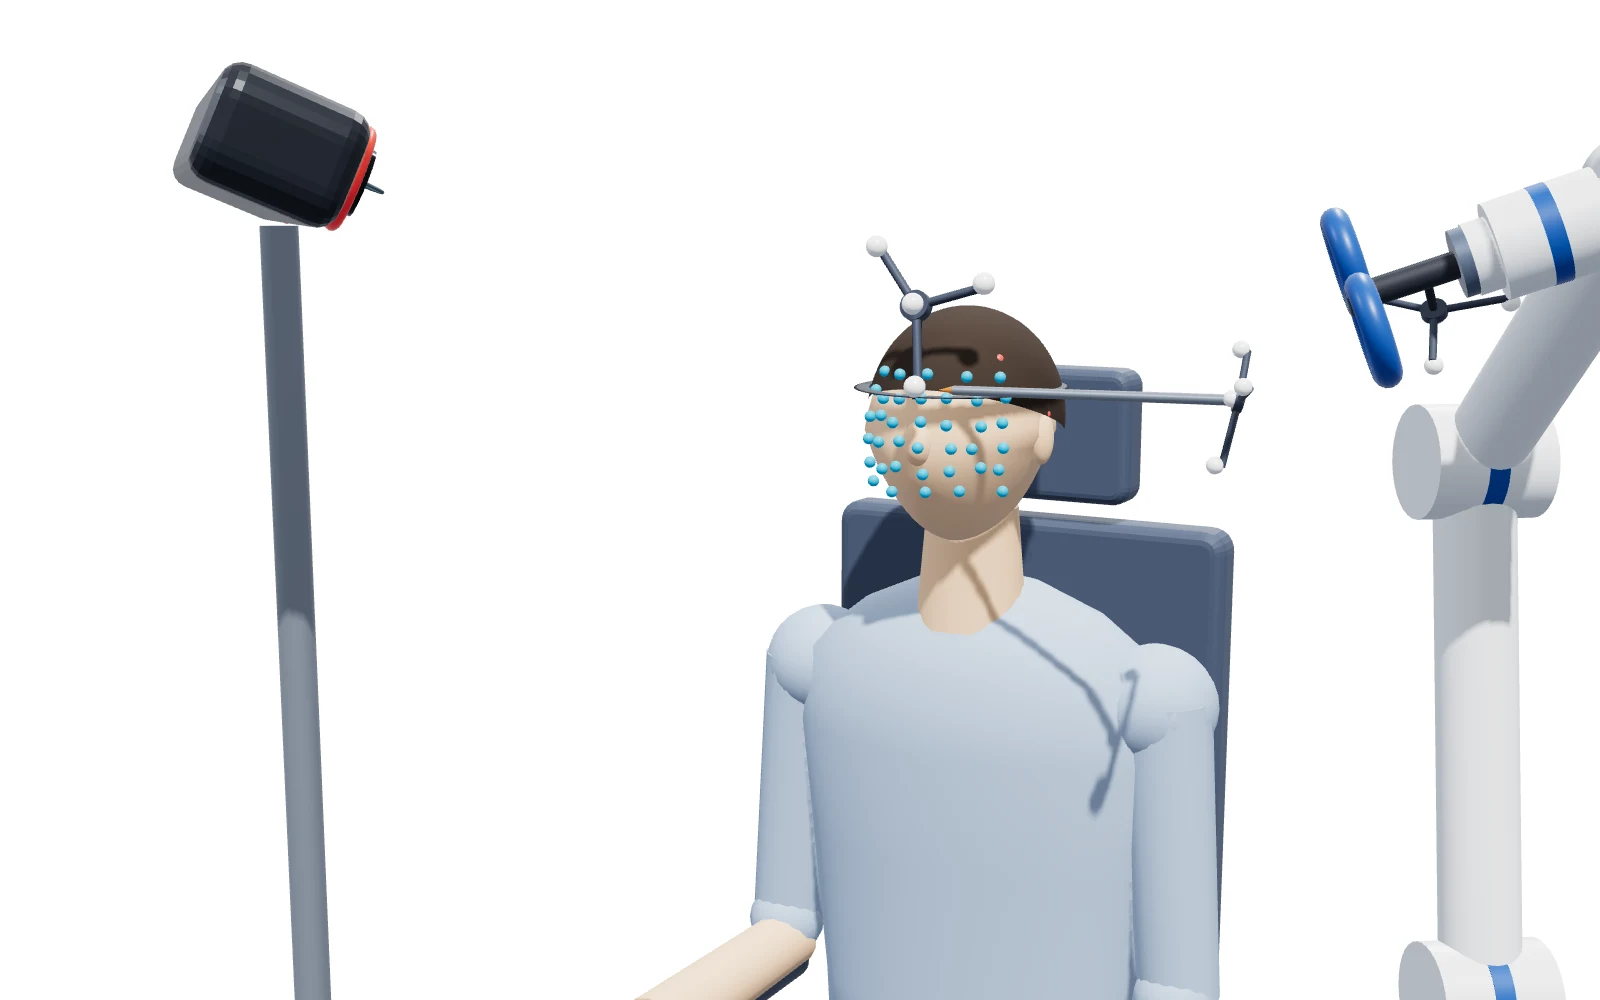
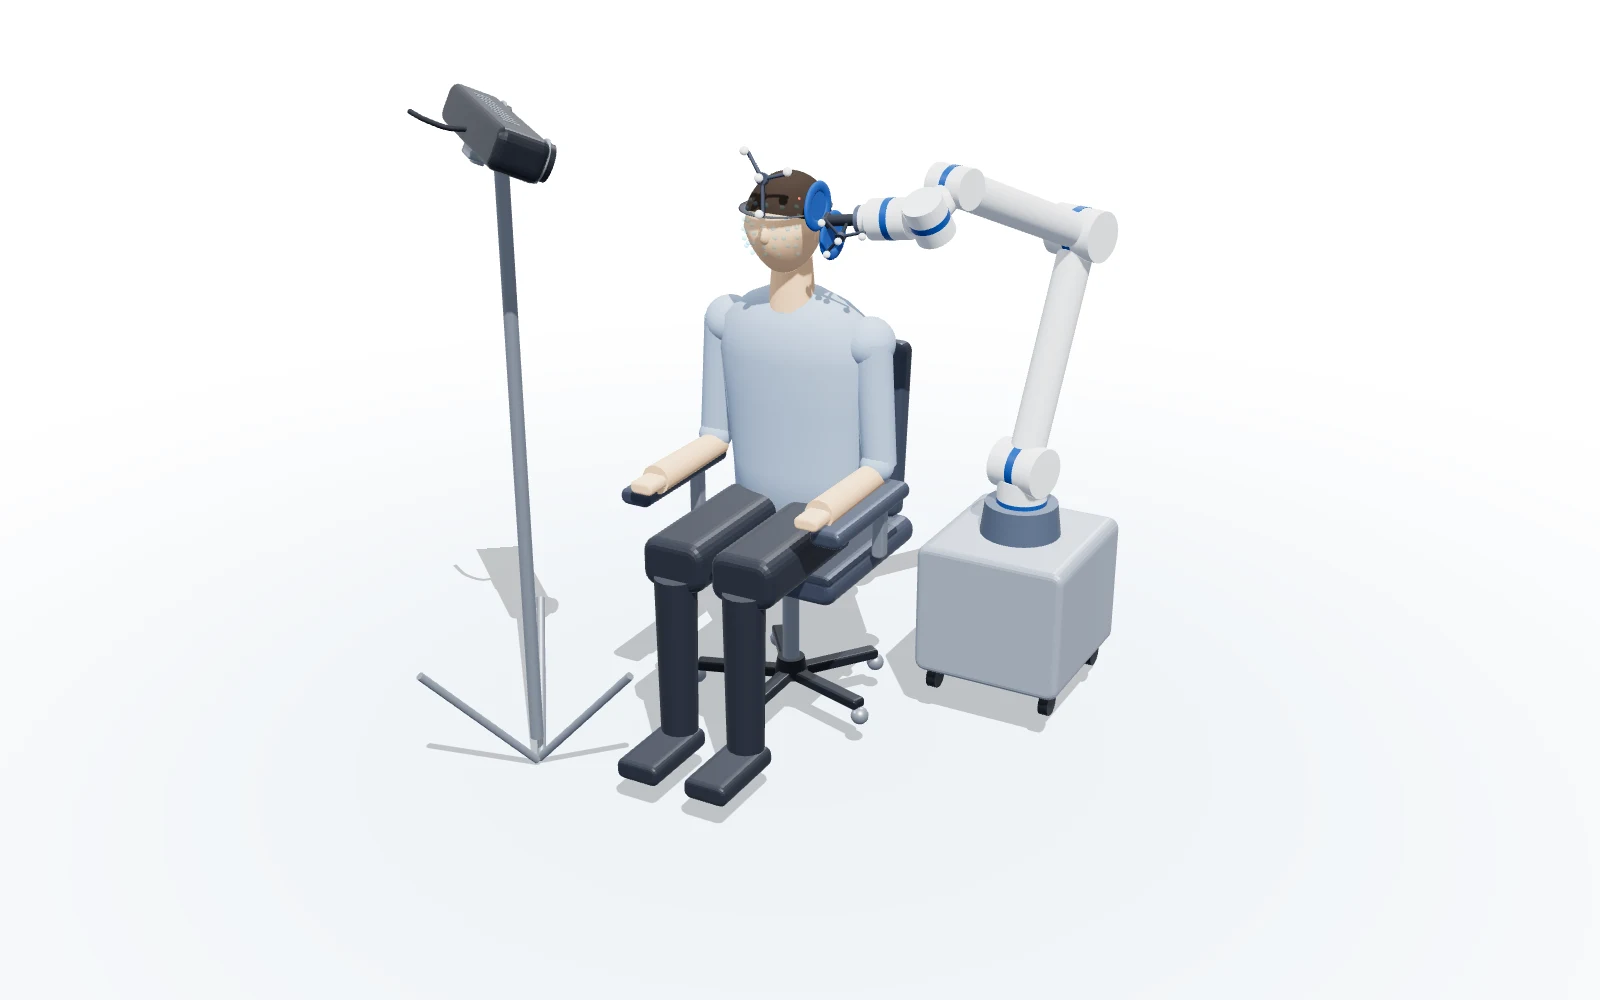
feat(3d): recapture posters at the last step and document the step model
Posters are re-shot at each scene's last step (skadi at stillTime) with the shared look and floor plate. AGENTS.md documents steps, the shared look and the label budget; the 2026-10-30 spec gets a revision note. The fk-safety test now checks the phase order over one loop.

diff --git a/AGENTS.md b/AGENTS.md
@@ -106,8 +106,10 @@ Spec: `docs/superpowers/specs/2026-10-30-3d-figures-design.md`.
 
 - Home has no 3D figure; each case except `ai-build-lab` has one, declared as `scene3d` in `js/portfolio-data.js`. Projects cards keep their approved real images.
 - `js/scene3d.js` is the shared engine (three.js r128, ported from the 2026-10 presentation decks). It injects `js/vendor/three-r128.min.js` on demand when a figure nears the viewport, keeps at most two live WebGL contexts, disables wheel zoom, lets one-finger touch scroll the page and honours `prefers-reduced-motion`. While live it shows one quiet "드래그로 회전 / Drag to rotate" hint; captions do not repeat it.
-- Scenes live in `js/scenes/<name>.js`, are procedural only (no GLB, textures or network loads) and carry ko/en labels. Every visible element and label must match a sentence in the case's public role, summary or evidence; do not depict robot-assisted surgery, design-stage features as finished, customer hardware CAD, partner names or internal document sources.
+- Scenes live in `js/scenes/<name>.js`, are procedural; public-licence glTF is allowed by the 2026-11-06 spec under the validator rules - none adopted. They carry ko/en labels. Every visible element and label must match a sentence in the case's public role, summary or evidence; do not depict robot-assisted surgery, design-stage features as finished, customer hardware CAD, partner names or internal document sources.
 - Each figure shows a captured WebP poster (`assets/3d/<name>.webp`) until WebGL mounts; the poster is also the no-JS, no-WebGL and print image. These real scene captures are not the forbidden decorative SVG fallbacks.
+- Steps: a scene may register `loop` and `steps` (2-6, ko/en labels, optional `planned`). Live figures show a step bar; the default is the last step held with a slow sway, a click replays that step from its `t0`, reduced-motion jumps to the step's `t1` without playback, and `capture-3d.mjs` hides the bar and shoots the last step `t1` (`--step N` for another; scenes without steps use `stillTime`). Posters therefore show the finished state.
+- Look: the engine owns lighting and exposure (`LOOK`), a floor plate with contact shadow (`ground: false` for floating scenes) and the shared material library `matLib`; scenes add no lights. Step labels and scene `.lb` text share one budget: ko up to 14 characters, en up to 28, noun phrases, circled numbers on the buttons only.
 - `scene3d` is web-only and excluded from the PDF source digest. Capture posters and README images with `scripts/capture-3d.mjs` (it writes its own temporary stage page; set `SCENE3D_PUPPETEER_DIR` to a node_modules folder containing puppeteer-core).
 
 ## Required verification

diff --git a/docs/superpowers/specs/2026-10-30-3d-figures-design.md b/docs/superpowers/specs/2026-10-30-3d-figures-design.md
@@ -74,6 +74,8 @@
 - **품질 단계.** 모바일과 WebGL1은 그림자 1024, SSAO 없음.
 - **장면 제약.** 장면은 프로시저럴만 허용한다. GLB와 텍스처 이미지 로드는 금지한다(`file://` 호환과 고객 하드웨어 배제를 위해).
 
+> 개정(2026-11-06 스펙 §②): 공개 라이선스 glTF 허용, 단계 버튼·공통 모양 도입.
+
 **스크립트 순서.** 정적으로 추가하는 스크립트는 2개다: `scene3d.js` → `scenes/<name>.js`. 위치는 `portfolio-render.js` 다음, `nav.js` 앞이다.
 
 **폴백과 인쇄.**
